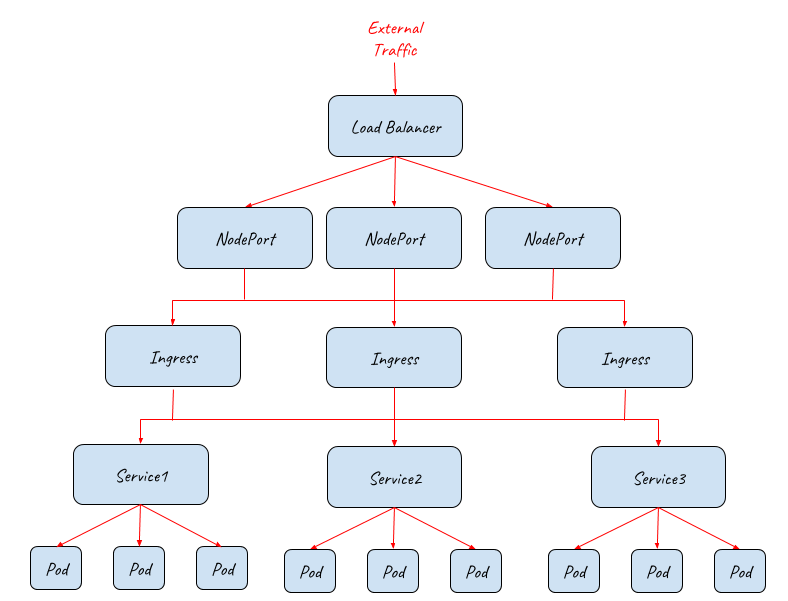
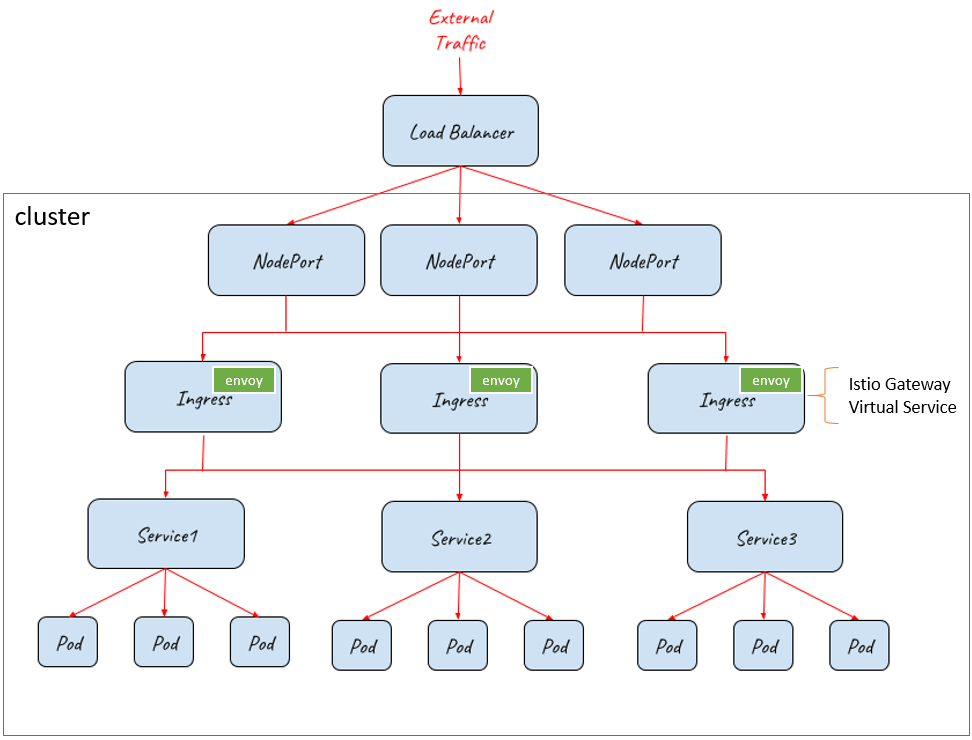
update

diff --git a/docs/system/service-mesh/istio-gateway/index.html b/docs/system/service-mesh/istio-gateway/index.html
@@ -1,0 +1,245 @@
+<!DOCTYPE html>
+<html lang="cn">
+
+<head>
+  <meta charset="UTF-8">
+<meta name="viewport" content="width=device-width, initial-scale=1.0">
+<meta name="description" content="Istio Gateway"><meta property="og:title" content="" />
+<meta property="og:description" content="Gateway边缘控制 Ingress  入口流量控制
+  外部流量通过LB进入集群 集群通过节点NodePort开放入口 流量通过Istio Gateway进入服务网格内 Gateway通过Envoy代理实现 Envoy通过Virtual Service规则实现流量路由 Virtual Service根据规则匹配对应的Service  Egress  出口流量控制
+ Egress类似Ingress，通过Envoy提供外部访问代理
+参考：
+ Which One is the Right Choice for the Ingress Gateway of Your Service Mesh? Kubernetes Ingress, Istio Gateway or API Gateway?  " />
+<meta property="og:type" content="article" />
+<meta property="og:url" content="https://luckywinds.github.io/docs/system/service-mesh/istio-gateway/" />
+
+<title>Istio Gateway | Luckywinds</title>
+<link rel="icon" href="/favicon.png" type="image/x-icon">
+
+
+<link rel="stylesheet" href="/book.min.7caec2b7215c11074e93359e7c5b62d3762e9721d2494a9b631305ed1238eda1.css" integrity="sha256-fK7CtyFcEQdOkzWefFti03YulyHSSUqbYxMF7RI47aE=">
+
+
+<script type="application/javascript">
+var doNotTrack = false;
+if (!doNotTrack) {
+	window.ga=window.ga||function(){(ga.q=ga.q||[]).push(arguments)};ga.l=+new Date;
+	ga('create', 'UA-72065265-1', 'auto');
+	
+	ga('send', 'pageview');
+}
+</script>
+<script async src='https://www.google-analytics.com/analytics.js'></script>
+
+<!--
+Made with Book Theme
+https://github.com/alex-shpak/hugo-book
+-->
+
+  
+</head>
+
+<body>
+  <input type="checkbox" class="hidden" id="menu-control" />
+  <main class="container flex">
+    <aside class="book-menu">
+      
+  <nav>
+<h2 class="book-brand">
+  <a href="/"><span>Luckywinds</span>
+  </a>
+</h2>
+
+
+
+
+
+
+
+
+
+
+
+
+  <ul>
+<li>
+<p><a href="/docs/favorites/">收藏夹</a>
+<br/></p>
+</li>
+<li>
+<p><a href="/docs/system/">系统</a></p>
+</li>
+<li>
+<p><a href="/docs/algorithm/">算法</a></p>
+</li>
+<li>
+<p><a href="/docs/tool/">工具</a></p>
+</li>
+<li>
+<p><a href="/docs/language/">语言</a>
+<br/></p>
+</li>
+</ul>
+
+
+
+
+
+
+  
+<ul>
+  
+  <li>
+    <a href="/posts/" >
+        博客
+      </a>
+  </li>
+  
+  <li>
+    <a href="https://github.com/luckywinds" target="_blank" rel="noopener">
+        Github
+      </a>
+  </li>
+  
+</ul>
+
+
+
+
+
+
+</nav>
+
+
+
+
+  <script>(function(){var menu=document.querySelector("aside.book-menu nav");addEventListener("beforeunload",function(event){localStorage.setItem("menu.scrollTop",menu.scrollTop);});menu.scrollTop=localStorage.getItem("menu.scrollTop");})();</script>
+
+
+ 
+    </aside>
+
+    <div class="book-page">
+      <header class="book-header">
+        
+  <div class="flex align-center justify-between">
+  <label for="menu-control">
+    <img src="/svg/menu.svg" class="book-icon" alt="Menu" />
+  </label>
+
+  <strong>Istio Gateway</strong>
+
+  <label for="toc-control">
+    <img src="/svg/toc.svg" class="book-icon" alt="Table of Contents" />
+  </label>
+</div>
+
+
+  
+    <input type="checkbox" class="hidden" id="toc-control" />
+    <aside class="hidden clearfix">
+      
+  <nav id="TableOfContents">
+  <ul>
+    <li><a href="#gateway边缘控制">Gateway边缘控制</a>
+      <ul>
+        <li><a href="#ingress">Ingress</a></li>
+        <li><a href="#egress">Egress</a></li>
+      </ul>
+    </li>
+  </ul>
+</nav>
+
+
+    </aside>
+  
+ 
+      </header>
+
+      
+      
+<article class="markdown"><h1 id="gateway边缘控制">Gateway边缘控制</h1>
+<h2 id="ingress">Ingress</h2>
+<blockquote>
+<p>入口流量控制</p>
+</blockquote>
+<p><img src="/images/system/service-mesh/istio-gateway.png" alt="alt" />
+</p>
+<ol>
+<li>外部流量通过LB进入集群</li>
+<li>集群通过节点NodePort开放入口</li>
+<li>流量通过Istio Gateway进入服务网格内</li>
+<li>Gateway通过Envoy代理实现</li>
+<li>Envoy通过Virtual Service规则实现流量路由</li>
+<li>Virtual Service根据规则匹配对应的Service</li>
+</ol>
+<h2 id="egress">Egress</h2>
+<blockquote>
+<p>出口流量控制</p>
+</blockquote>
+<p>Egress类似Ingress，通过Envoy提供外部访问代理</p>
+<p>参考：</p>
+<ul>
+<li><a href="https://medium.com/@zhaohuabing/which-one-is-the-right-choice-for-the-ingress-gateway-of-your-service-mesh-21a280d4a29c">Which One is the Right Choice for the Ingress Gateway of Your Service Mesh? Kubernetes Ingress, Istio Gateway or API Gateway?</a></li>
+</ul>
+</article>
+ 
+      
+
+      <footer class="book-footer">
+        
+  <div class="flex justify-between">
+
+
+
+
+
+</div>
+
+ 
+        
+  
+  <div class="book-comments">
+
+</div>
+  
+ 
+      </footer>
+      
+    </div>
+
+    
+    <aside class="book-toc">
+      
+  <nav id="TableOfContents">
+  <ul>
+    <li><a href="#gateway边缘控制">Gateway边缘控制</a>
+      <ul>
+        <li><a href="#ingress">Ingress</a></li>
+        <li><a href="#egress">Egress</a></li>
+      </ul>
+    </li>
+  </ul>
+</nav>
+
+ 
+    </aside>
+    
+  </main>
+
+  
+</body>
+
+</html>
+
+
+
+
+
+
+
+
+
+
+
+

diff --git a/docs/system/service-mesh/istio/index.html b/docs/system/service-mesh/istio/index.html
@@ -8,7 +8,7 @@
 <meta property="og:description" content="Istio简介  Istio是service mesh的一种
  核心特性  流量管理：限流、熔断、故障注入等 安全：认证、授权、加密等 监测：跟踪、监控、日志等  架构 Istio逻辑上分为数据面（data plane）和控制面（control plane）
  数据面：由sidecar模式部署的Envoy代理组成，控制微服务之间的网络通信 控制面：管理和配置sidecar代理服务上  组件：
- Envoy：高性能的代理服务，代理微服务所有的出入流量 Pilot：服务发现、智能路由、网络韧性（超时、重试、熔断等） Citadel：安全管理 Galley：策略管理  组件  istio-citadel，安全管理 istio-galley，配置管理 istio-pilot，服务发现、智能路由、策略控制 istio-ingressgateway，入口管理 istio-engressgateway，出口管理 istio-policy，访问控制管理 istio-telemetry，服务监测管理 istio-sidecar-injector，代理管理  " />
+ Envoy：高性能的代理服务，代理微服务所有的出入流量 Pilot：服务发现、智能路由、网络韧性（超时、重试、熔断等） Citadel：安全管理 Galley：策略管理  组件  istio-citadel，安全管理 istio-galley，配置管理 istio-pilot，服务发现、智能路由、策略控制 istio-ingressgateway，入口管理 istio-egressgateway，出口管理 istio-policy，访问控制管理 istio-telemetry，服务监测管理 istio-sidecar-injector，代理管理  " />
 <meta property="og:type" content="article" />
 <meta property="og:url" content="https://luckywinds.github.io/docs/system/service-mesh/istio/" />
 
@@ -191,7 +191,7 @@ https://github.com/alex-shpak/hugo-book
 <li>istio-galley，配置管理</li>
 <li>istio-pilot，服务发现、智能路由、策略控制</li>
 <li>istio-ingressgateway，入口管理</li>
-<li>istio-engressgateway，出口管理</li>
+<li>istio-egressgateway，出口管理</li>
 <li>istio-policy，访问控制管理</li>
 <li>istio-telemetry，服务监测管理</li>
 <li>istio-sidecar-injector，代理管理</li>

diff --git a/docs/system/index.html b/docs/system/index.html
@@ -151,6 +151,7 @@ https://github.com/alex-shpak/hugo-book
 <li><a href="service-mesh/istio">Istio简介</a></li>
 <li><a href="service-mesh/istio-sidecar">Sidecar网络管理</a></li>
 <li><a href="service-mesh/istio-polit">Polit策略配置</a></li>
+<li><a href="service-mesh/istio-gateway">Gateway边缘控制</a></li>
 </ul>
 </article>
  
